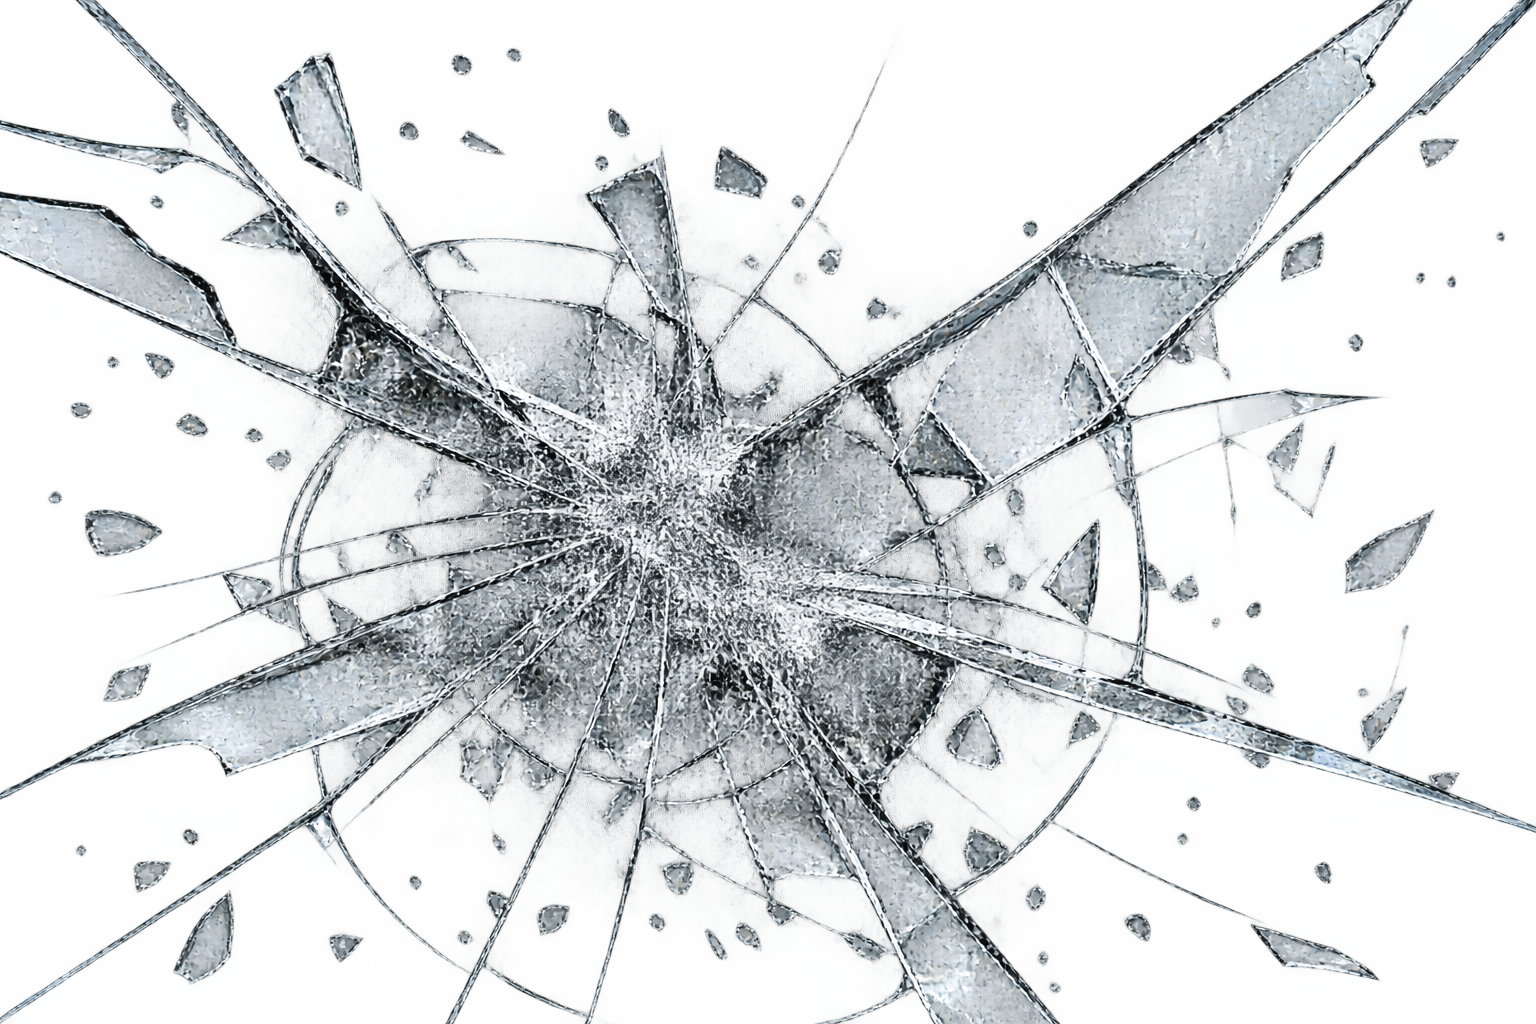
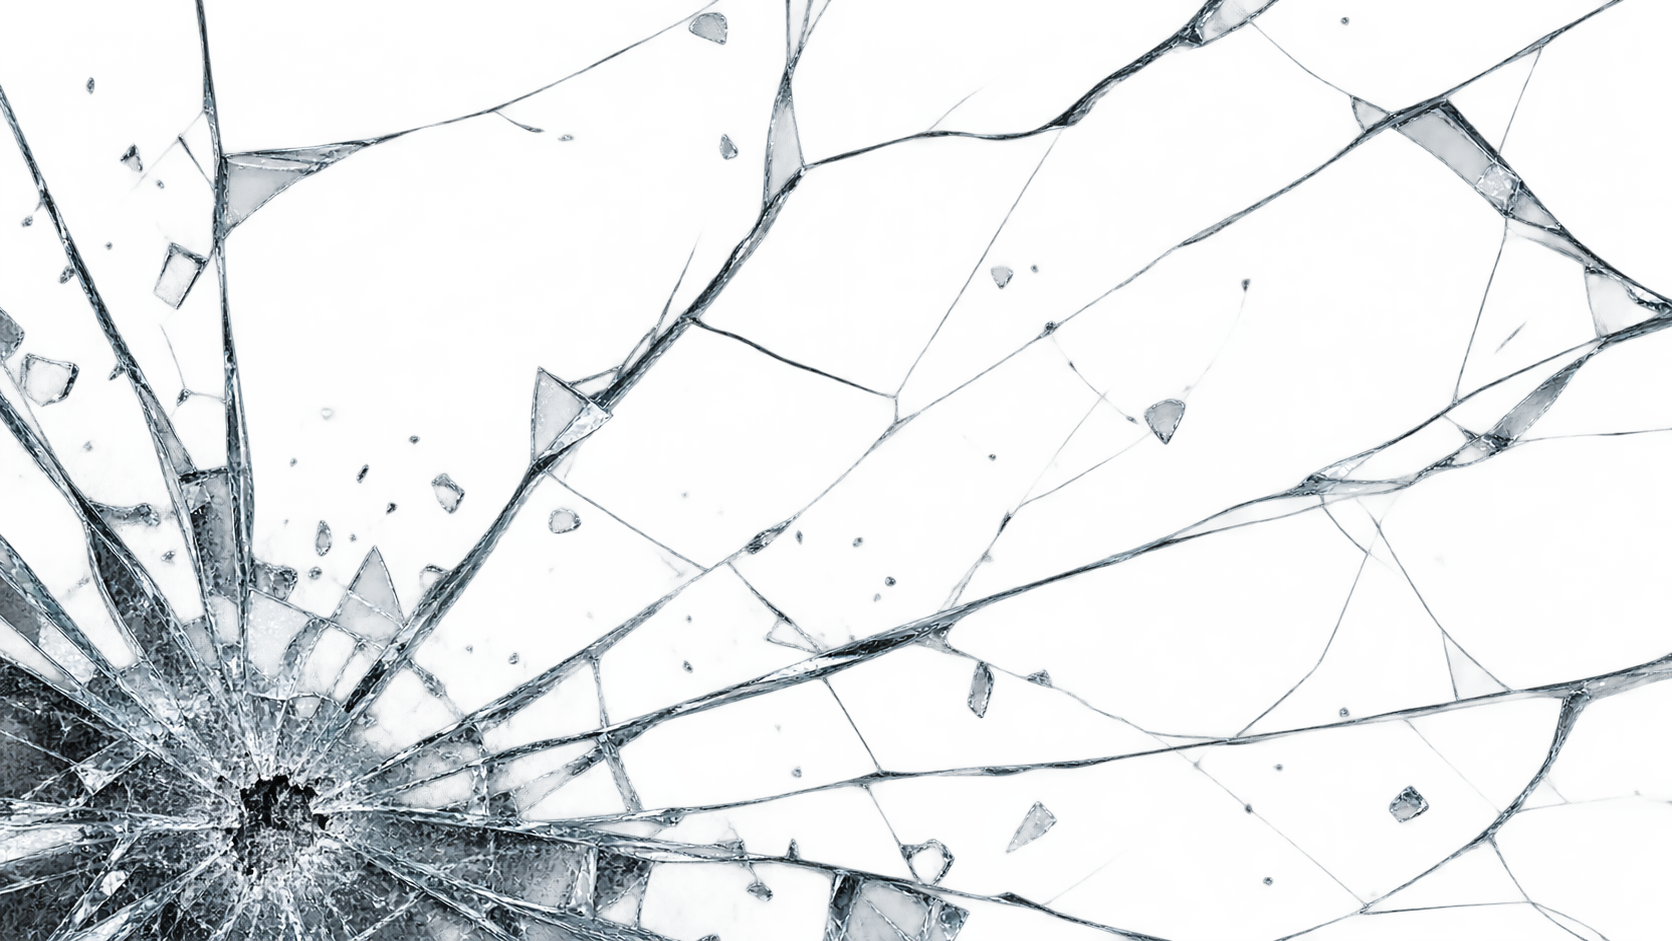
Start new router animation idea

diff --git a/src/components/GlassImpactBackground.vue b/src/components/GlassImpactBackground.vue
@@ -124,7 +124,7 @@ function getHeaderTargets() {
   }
 }
 
-function startFlameAnimation(flame: HTMLElement) {
+/* function startFlameAnimation(flame: HTMLElement) {
   flamePulse?.kill()
   gsap.set(flame, { transformOrigin: '50% 75%' })
 
@@ -145,9 +145,9 @@ function startFlameAnimation(flame: HTMLElement) {
       duration: 0.12,
       ease: 'sine.inOut',
     })
-}
+} */
 
-function positionImpactEffects() {
+/* function positionImpactEffects() {
   if (!scene.value) return
 
   const effects = scene.value.querySelectorAll<HTMLElement>('.impact-sparks, .impact-spash')
@@ -159,9 +159,9 @@ function positionImpactEffects() {
       yPercent: -50,
     })
   })
-}
+} */
 
-function playImpactEffects(
+/* function playImpactEffects(
   splash: HTMLElement,
   sparks: HTMLElement,
 ) {
@@ -209,13 +209,13 @@ function playImpactEffects(
     }, '+=0.05')
 
   return effects
-}
+} */
 
 function runHeaderFlip() {
   if (!scene.value) return Promise.resolve()
 
   const { mark: headerMark, text: headerText, header, shell } = getHeaderTargets()
-  const introMark = scene.value.querySelector<HTMLElement>('.faded-logo')
+  const introMark = scene.value.querySelector<HTMLElement>('.burning-logo')
   const introText = scene.value.querySelector<HTMLElement>('.full-wordmark')
 
   if (!headerMark || !headerText || !header || !shell || !introMark || !introText) {
@@ -240,8 +240,8 @@ function runHeaderFlip() {
   return new Promise<void>((resolve) => {
     Flip.from(state, {
       duration: 1.55,
-      ease: 'power3.inOut',
-      onleave: () => { gsap.fromTo([introMark, introText], {opacity: 1, scale: 1}, {opacity: 0, scale: 0, duration: 0.14, ease: 'power1.out'})},
+      ease: 'power2.out',
+      onleave: () => { gsap.fromTo([introMark, introText], {opacity: 1, scale: 1}, {opacity: 0, scale: 0, duration: 1.14, ease: 'power1.out'})},
       absolute: false,
       onComplete: () => {
         gsap.set([headerMark, headerText], { opacity: 1 })
@@ -271,9 +271,9 @@ async function animateImpact() {
 
   const glass = scene.value.querySelector<SVGRectElement>('.glass-pane')
   const logo = scene.value.querySelector<HTMLElement>('.burning-logo')
-  const splash = scene.value.querySelector<HTMLElement>('.impact-spash')
-  const sparks = scene.value.querySelector<HTMLElement>('.impact-sparks')
-  const fadedLogo = scene.value.querySelector<HTMLElement>('.faded-logo')
+  //const splash = scene.value.querySelector<HTMLElement>('.impact-spash')
+  //const sparks = scene.value.querySelector<HTMLElement>('.impact-sparks')
+  //const fadedLogo = scene.value.querySelector<HTMLElement>('.faded-logo')
   const fullWordmark = scene.value.querySelector<HTMLElement>('.full-wordmark')
   const largeShardElements = scene.value.querySelectorAll<SVGPolygonElement>('.glass-shard:not(.glass-shard--small)')
   const smallShardElements = scene.value.querySelectorAll<SVGPolygonElement>('.glass-shard--small')
@@ -281,19 +281,19 @@ async function animateImpact() {
   const paneLighting = scene.value.querySelectorAll<HTMLElement>('.glass-scene__light-sweep, .glass-scene__reflection, .glass-scene__pane-sheen, .glass-scene__pane-edge')
   const { shell } = getHeaderTargets()
 
-  if (!glass || !logo || !splash || !sparks || !fullWordmark) return
+  if (!glass || !logo || !fullWordmark) return
 
-  positionImpactEffects()
+  //positionImpactEffects()
 
-  gsap.set(logo, { y: -240, scale: 0.82, rotation: -4, opacity: 1 })
+  gsap.set(logo, { y: -1000, scale: 0.82, rotation: -4, opacity: 1 })
   gsap.set(allShardElements, { opacity: 0, strokeOpacity: 0 })
-  gsap.set([splash, sparks], { opacity: 0, scale: 0.3 })
-  gsap.set(fadedLogo, { opacity: 0 })
-  gsap.set(fullWordmark, { y: 0, scale: 1, opacity: 0})
+  //gsap.set([splash, sparks], { opacity: 0, scale: 0.3 })
+  //gsap.set(fadedLogo, { opacity: 0 })
+  gsap.set(fullWordmark, { y: -200, scale: 1, opacity: 0})
   gsap.set(paneLighting, { opacity: 0.78 })
   if (shell) gsap.set(shell, { opacity: 0 })
 
-  startFlameAnimation(sparks)
+  //startFlameAnimation(sparks)
 
   introTimeline = gsap.timeline()
     // B falls into the exact center of the full-screen pane.
@@ -301,13 +301,13 @@ async function animateImpact() {
       y: 0,
       rotation: 0,
       scale: 1,
-      duration: 1.05,
-      ease: 'power3.in',
+      duration: 1.5,
+      ease: 'power2.in',
     })
     // The impact frame. Effects start here, not during the fall.
-    .add(() => {
-      playImpactEffects(splash, sparks).play()
-    })
+    //.add(() => {
+    //  playImpactEffects(splash, sparks).play()
+    //})
     .to(logo, {
       scale: 1.16,
       duration: 0.075,
@@ -316,46 +316,46 @@ async function animateImpact() {
     .to(glass, {
       opacity: 0,
       scale: 1.035,
-      duration: 0.11,
+      duration: 0.1,
+      ease: 'power2.out',
+    }, '<')
+    .to(paneLighting, {
+      opacity: 0,
+      scale: 1.04,
+      duration: 0.1,
       ease: 'power2.out',
     }, '<')
     .to(allShardElements, {
       opacity: 1,
       strokeOpacity: 1,
-      duration: 0.08,
+      duration: 0.1,
       ease: 'power1.in',
-    }, '<')
+    }, '<0.05')
     .to(logo, {
       scale: 1,
-      duration: 0.26,
+      duration: 0.25,
       ease: 'back.out(2.2)',
     })
-    .to(paneLighting, {
-      opacity: 0,
-      scale: 1.04,
-      duration: 0.4,
-      ease: 'power2.out',
-    }, '<')
     .to(largeShardElements, {
       x: (index) => shards.value[index].x,
       y: (index) => shards.value[index].y,
       rotation: (index) => shards.value[index].rotation,
       opacity: (index) => (index % 9 === 0 ? 0.28 : 0.8),
-      duration: 1.15,
-      ease: 'power3.out',
+      duration: 2,
+      ease: 'power2.out',
       stagger: { each: 0.006, from: 'center' },
-    }, '-=0.16')
+    }, '<')
     .to(smallShardElements, {
       x: (index) => smallShards.value[index].x,
       y: (index) => smallShards.value[index].y,
       rotation: (index) => smallShards.value[index].rotation,
       opacity: 0.9,
-      duration: 0.86,
+      duration: 1.75,
       ease: 'power3.out',
       stagger: { each: 0.009, from: 'center' },
-    }, '<0.08')
+    }, '<0.25')
     // The fire/water version lives only through the first part of the fracture.
-      .to(logo, {
+    /*.to(logo, {
       opacity: 0,
       duration: 0.42,
       ease: 'power2.in',
@@ -367,21 +367,21 @@ async function animateImpact() {
       scale: 1,
       duration: 0.42,
       ease: 'power2.out',
-    }, '<0.02')
+    }, '<0.02') */
     .to(fullWordmark, {
       opacity: 1,
       y: 25,
-      duration: 0.65,
-      ease: 'back.out(1.72)',
-    }, '-=0.18')
+      duration: 2,
+      ease: 'elastic.out(1, 0.3)',
+    }, '-=1')
     // Let the completed lockup breathe before it moves into the header.
-    .to({}, { duration: 1.5 })
+    .to({}, { duration: 1.5 });
 
   await introTimeline
   await runHeaderFlip()
 
-  flamePulse?.kill()
-  gsap.set(sparks, { opacity: 0 })
+  //flamePulse?.kill()
+  //gsap.set(sparks, { opacity: 0 })
 
   uiStore.animationPlayed = true;
   impactComplete.value = true
@@ -496,7 +496,7 @@ async function setup() {
   await nextTick()
   await new Promise<void>((resolve) => requestAnimationFrame(() => resolve()))
 
-  if (uiStore.animationPlayed === true) {
+  if (uiStore.animationPlayed || uiStore.isMobile) {
     createRestoreTimeline()
     showBrokenState()
     const { header, shell } = getHeaderTargets()
@@ -539,7 +539,7 @@ onBeforeUnmount(() => {
   restoreTrigger?.kill()
   restoreTrigger = null
   introTimeline?.kill()
-  flamePulse?.kill()
+  //flamePulse?.kill()
   ScrollTrigger.getAll().forEach((trigger) => trigger.kill())
   gsap.killTweensOf(scene.value)
 })
@@ -571,9 +571,9 @@ onBeforeUnmount(() => {
       />
     </svg>
     <div class="burning-logo"><BurningRiverEmblem /></div>
-    <div class="faded-logo"><BurningRiverFadedEmblem /></div>
+    <!--<div class="faded-logo"><BurningRiverFadedEmblem /></div>
     <div class="impact-sparks"><Flames /></div>
-    <div class="impact-spash"><Splash /></div>
+    <div class="impact-spash"><Splash /></div>-->
     <div class="full-wordmark"><BurningRiverAutoGlassWordmark /></div>
     <div class="restore-logo">
       <div class="restore-emblem"><BurningRiverEmblem /></div>

diff --git a/src/components/PageTransition.vue b/src/components/PageTransition.vue
@@ -5,6 +5,9 @@ import glass02 from "../assets/Glass02.png"
 import glass03 from "../assets/Glass03.png"
 import glass04 from "../assets/glass04.png"
 import glass05 from "../assets/glass05.png"
+import transitionCar_Transparent from "../assets/transitionCar_Transparent.png"
+import transitionCar_Interior from "../assets/transitionCar_Interior.png"
+import transitionCar_windshield from "../assets/transitionCar_windshield.png"
 
 const images = [glass01, glass02, glass03, glass04, glass05]
 
@@ -30,7 +33,10 @@ defineExpose({
 
 <template>
   <div ref="overlay" class="transition-overlay">
-    <img :src="currentImage" class="glass" />
+    <img :src="transitionCar_Interior" class="ovrlay cover interior" />
+    <img :src="transitionCar_Transparent" class="ovrlay cover window" />
+    <img :src="currentImage" class="ovrlay contain crack" />
+    <img :src="transitionCar_windshield" class="ovrlay contain glass" />
   </div>
 </template>
 
@@ -38,7 +44,7 @@ defineExpose({
 .transition-overlay {
   position: fixed;
   inset: 0;
-  z-index: 99999;
+  z-index: 100;
 
   background-color: transparent;
 
@@ -47,11 +53,38 @@ defineExpose({
   transform: translateX(-100%);
 }
 
-.glass {
+.ovrlay {
   position: absolute;
   inset: 0;
   width: 100%;
   height: 100%;
-  object-fit: cover;
+
+  .cover {
+    object-fit: cover;
+  }
+
+  .contain {
+    object-fit: contain;
+  }
 }
+
+.window {
+  z-index: 3;
+}
+
+.interior {
+  z-index: 2;
+  opacity: 0;
+}
+
+.crack {
+  z-index: 1;
+  backdrop-filter: blur(8px);
+}
+
+.glass {
+  z-index: 4;
+  opacity: 0;
+}
+
 </style>

diff --git a/src/composables/usePageTransition.ts b/src/composables/usePageTransition.ts
@@ -4,6 +4,11 @@ import type PageTransition from "../components/PageTransition.vue"
 
 let instance: InstanceType<typeof PageTransition> | null = null
 
+const window = document.querySelector<HTMLElement>('.ovrlay-window');
+const glass = document.querySelector<HTMLElement>('.ovrlay-glass');
+const interior = document.querySelector<HTMLElement>('.ovrlay-interior');
+const crack = document.querySelector<HTMLElement>('.ovrlay-crack');
+
 export function registerPageTransition(
   transition: InstanceType<typeof PageTransition>
 ) {
@@ -21,8 +26,8 @@ export async function cover() {
       xPercent: 100,
       duration: 0.45,
       ease: "power3.inOut",
-      onComplete: resolve
     })
+    
   })
 }
 
